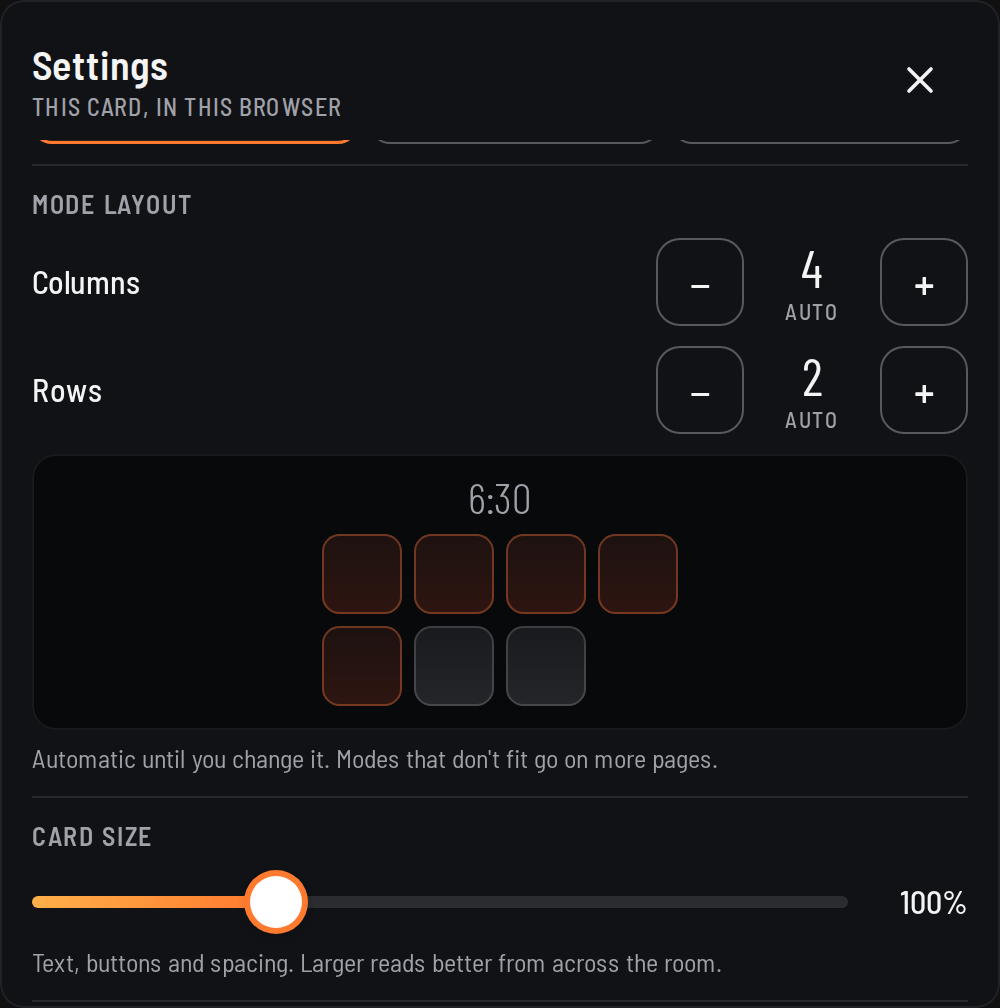
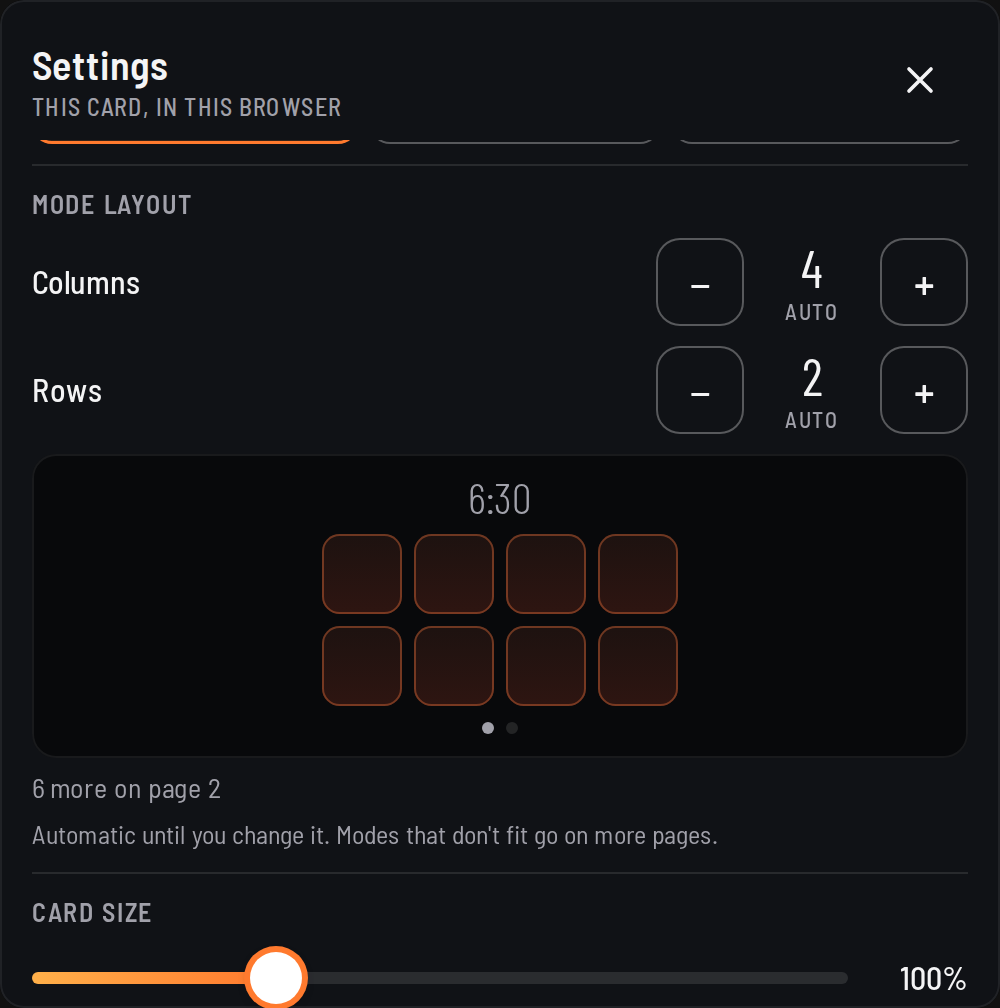
Card guide: update for card 0.5.12
Re-shot the /card/ page on card 0.5.12: History with Export, page 2 and
the glide back, all 11 modes and their review screens, the food probe
picker and Stop at target, and the wall graph's axes.

Claude-Session: https://claude.ai/code/session_01WwCH73fbN4NbpcaAJZKq51

diff --git a/public/card/index.html b/public/card/index.html
@@ -4,7 +4,7 @@
 <meta charset="utf-8">
 <meta name="viewport" content="width=device-width, initial-scale=1">
 <title>July Oven card guide — Project July</title>
-<meta name="description" content="A walkthrough of the July Oven dashboard card for Home Assistant: starting a cook, the oven states, the camera window, several ovens, settings and sizes, with pictures and animations.">
+<meta name="description" content="A walkthrough of the July Oven dashboard card for Home Assistant: starting a cook in any of its modes, the oven states, the camera window, cook history, several ovens, settings and sizes, with pictures and animations.">
 <meta name="theme-color" content="#08090b">
 <link rel="canonical" href="https://project-july.org/card/">
 <link rel="icon" href="../assets/project-july-mark.svg" type="image/svg+xml">
@@ -15,9 +15,9 @@
 <meta property="og:site_name" content="Project July">
 <meta property="og:url" content="https://project-july.org/card/">
 <meta property="og:title" content="The July Oven card for Home Assistant">
-<meta property="og:description" content="Every screen of the July Oven dashboard card: starting a cook, the oven states, the camera, several ovens and settings.">
+<meta property="og:description" content="Every screen of the July Oven dashboard card: starting a cook, the oven states, the camera, cook history, several ovens and settings.">
 <meta property="og:image" content="https://project-july.org/card/img/home.png">
-<meta property="og:image:alt" content="The July Oven card's home screen: a clock and tiles for Bake, Roast, Broil, Air fry, Toast, Camera and Settings.">
+<meta property="og:image:alt" content="The July Oven card's home screen: the oven's icon and name, the time, and mode tiles for Bake, Roast, Broil, Air fry, Toast, Grill, Pizza and Reheat.">
 <meta property="og:locale" content="en_US">
 <meta name="twitter:card" content="summary_large_image">
 <link rel="preconnect" href="https://fonts.googleapis.com">
@@ -163,25 +163,26 @@ footer{border-top:1px solid var(--rim);padding-block:28px;color:var(--fg3);font-
 </style>
 </head>
 <body>
+
 <div class="wrap">
   <header class="top">
     <a class="brand" href="../" aria-label="Project July, home">
       <svg viewBox="0 0 24 24" fill="none" stroke="currentColor" stroke-width="1.75" stroke-linecap="round" stroke-linejoin="round" aria-hidden="true"><rect x="3.5" y="4" width="17" height="16" rx="2.5"/><path d="M3.5 8.5h17M7 6.3h1.5M11 6.3h1.5"/><rect x="7" y="11.5" width="10" height="5.5" rx="1.2"/></svg>
       Project July
     </a>
-    <span class="ver">Card 0.4.9</span>
+    <span class="ver">Card 0.5.12</span>
   </header>
 
   <div class="hero">
     <div>
       <div class="lab ember">A tour of the dashboard card</div>
       <h1 style="margin-top:14px">The July Oven <em>card</em></h1>
-      <p class="lede">Your June oven, on your Home Assistant dashboard, working locally. This walkthrough covers <b>every screen</b> of the card: starting a cook, watching it, the camera, several ovens, and the settings.</p>
+      <p class="lede">Your June oven, on your Home Assistant dashboard, working locally. This walkthrough covers <b>every screen</b> of the card: starting a cook, watching it, the camera, the cook history, several ovens, and the settings.</p>
       <nav class="jump" aria-label="Sections">
-        <a href="#setup">Set up</a><a href="#home">Home screen</a><a href="#start">Start a cook</a><a href="#cook">While it cooks</a><a href="#camera">Camera</a><a href="#ovens">Several ovens</a><a href="#settings">Settings</a><a href="#sizes">Sizes</a><a href="#help">Help</a>
+        <a href="#setup">Set up</a><a href="#home">Home screen</a><a href="#start">Start a cook</a><a href="#cook">While it cooks</a><a href="#camera">Camera</a><a href="#history">History</a><a href="#ovens">Several ovens</a><a href="#settings">Settings</a><a href="#sizes">Sizes</a><a href="#help">Help</a>
       </nav>
     </div>
-    <figure class="shot glow"><img src="img/home.png" width="1000" height="752" alt="The July Oven card's home screen: the Kitchen oven's icon and name, the time 6:30, and tiles for Bake, Roast, Broil, Air fry, Toast, Camera and Settings."></figure>
+    <figure class="shot glow"><img src="img/home.png" width="1000" height="752" alt="The July Oven card's home screen: the Kitchen oven's icon and name, the time 6:30, and the first page of mode tiles: Bake, Roast, Broil, Air fry, Toast, Grill, Pizza and Reheat."></figure>
   </div>
 
   <section id="setup">
@@ -214,23 +215,21 @@ footer{border-top:1px solid var(--rim);padding-block:28px;color:var(--fg3);font-
     <div class="sec-head">
       <div class="lab">Home screen</div>
       <h2>What you see when the oven is off</h2>
-      <p>The card shows the oven's own home screen: a clock and the cook modes, laid out like the tiles on the oven's touchscreen.</p>
+      <p>The card shows the oven's own home screen: a clock and pages of cook modes, laid out and drawn like the tiles on the oven's touchscreen.</p>
     </div>
     <div class="pair" data-pins>
       <figure class="shot pins">
-        <img src="img/home.png" width="1000" height="752" alt="Home screen with numbered callouts.">
+        <img src="img/home.png" width="1000" height="752" alt="Home screen with numbered callouts: the oven icon, the clock, the mode tiles and the page dots.">
         <span class="pin" data-n="1" style="left:5%;top:18%">1</span>
         <span class="pin" data-n="2" style="left:65%;top:9%">2</span>
         <span class="pin" data-n="3" style="left:21.5%;top:30%">3</span>
-        <span class="pin" data-n="4" style="left:46.4%;top:65%">4</span>
-        <span class="pin" data-n="5" style="left:71%;top:65%">5</span>
+        <span class="pin" data-n="4" style="left:39%;top:93%">4</span>
       </figure>
       <ol class="legend">
         <li data-n="1"><i>1</i><div><b>The oven's icon is its lamp</b>Orange while the oven heats, white while it's off. Tap it to open the oven menu.</div></li>
         <li data-n="2"><i>2</i><div><b>Clock</b>12 or 24 hour follows your locale, or set it in Settings.</div></li>
-        <li data-n="3"><i>3</i><div><b>Cook mode tiles</b>The glow lines show which heating elements each mode uses: bottom for Bake, top for Broil, both for Roast, a fan for Air fry.</div></li>
-        <li data-n="4"><i>4</i><div><b>Camera</b>Opens the camera window inside the card.</div></li>
-        <li data-n="5"><i>5</i><div><b>Settings</b>Card settings for this browser, covered <a href="#settings">below</a>.</div></li>
+        <li data-n="3"><i>3</i><div><b>Cook mode tiles</b>Drawn the way the oven draws them: the glow lines show the heating elements (bottom for Bake, top for Broil, both for Roast), a fan for Air fry, waves for Reheat.</div></li>
+        <li data-n="4"><i>4</i><div><b>More pages</b>Swipe, or tap a dot. Page 2 holds Proof, Keep warm, Dehydrate, and the Camera, History and Settings tiles.</div></li>
       </ol>
     </div>
     <div class="two" style="margin-top:36px">
@@ -241,10 +240,14 @@ footer{border-top:1px solid var(--rim);padding-block:28px;color:var(--fg3);font-
       <figure class="shot"><img src="img/airfry.gif" width="700" height="526" loading="lazy" alt="Animation: the pointer rests on the Air fry tile and its fan spins up; when the pointer leaves, the fan slows and stops."><figcaption><b>Tiles answer the pointer.</b> A tile's glow fades in on hover, and the Air fry fan spins up, then eases to a stop when you move away.</figcaption></figure>
       <div class="prose" style="align-self:center">
         <div class="lab">Modes you can start from the card</div>
-        <div class="modes"><span class="mode">Bake</span><span class="mode">Roast</span><span class="mode">Broil</span><span class="mode">Air fry</span><span class="mode">Toast</span></div>
-        <p>Other June modes (Reheat, Proof, Dehydrate, Slow cook, Keep warm and more) still show by name when you start them on the oven or in the June app. Starting them from the card comes once their commands have been recorded.</p>
+        <div class="modes"><span class="mode">Bake</span><span class="mode">Roast</span><span class="mode">Broil</span><span class="mode">Air fry</span><span class="mode">Toast</span><span class="mode">Grill</span><span class="mode">Pizza</span><span class="mode">Reheat</span><span class="mode">Proof</span><span class="mode">Keep warm</span><span class="mode">Dehydrate</span></div>
+        <p>Slow cook still shows by name when you start it on the oven or in the June app; starting it from the card comes later.</p>
         <p>Prefer your favourites up front? Set <b>Cook modes</b> to <b>Most used first</b> in Settings and the tiles reorder by how often you start each mode from this card. <a href="#settings">Mode layout</a> sets how many columns and rows of tiles you get.</p>
       </div>
+    </div>
+    <div class="two" style="margin-top:28px">
+      <figure class="shot"><img src="img/home-p2.png" width="1000" height="752" loading="lazy" alt="Page 2 of the home screen: Proof, Keep warm, Dehydrate, Camera, History and Settings, with the second page dot lit."><figcaption><b>Page 2.</b> The last three modes, then Camera, History and Settings.</figcaption></figure>
+      <figure class="shot"><img src="img/pages.gif" width="700" height="526" loading="lazy" alt="Animation: tapping the second dot slides to page 2; after a while with no touch, the tiles glide back to page 1."><figcaption><b>Back to page 1 on its own.</b> Left alone for 45 seconds on a later page, the home screen glides back to the first one. Any touch stops it. (The wait is cut short here.)</figcaption></figure>
     </div>
   </section>
 
@@ -252,7 +255,7 @@ footer{border-top:1px solid var(--rim);padding-block:28px;color:var(--fg3);font-
     <div class="sec-head">
       <div class="lab">Start a cook</div>
       <h2>Tap a mode, check it, start it</h2>
-      <p>Nothing heats on one tap. Every mode opens a review first, and the oven only starts when you press <b>Start preheating</b>.</p>
+      <p>Nothing heats on one tap. Every mode opens a review first, and the oven only starts when you press <b>Start preheating</b>. Every review has the same layout: the mode's tile on the left, one large control in the middle with − and +, and a slider or a single line under it.</p>
     </div>
     <div class="pair">
       <figure class="shot glow"><img src="img/review.gif" width="700" height="526" loading="lazy" alt="Animation: tapping Bake opens the review at 350 °F; the slider is dragged to 425, then the number is tapped and 400 typed in; Start preheating is pressed and the card switches to Preheating, with the temperature climbing."><figcaption><b>Bake at 400 °F, start to finish.</b> Drag the slider, or use <b>−</b> and <b>+</b>, or tap the number and type it (Enter confirms, Escape puts the old value back). Then <b>Start preheating</b>.</figcaption></figure>
@@ -261,6 +264,12 @@ footer{border-top:1px solid var(--rim);padding-block:28px;color:var(--fg3);font-
       <div class="note cool" role="note"><svg viewBox="0 0 24 24" fill="none" stroke="currentColor" stroke-width="2" stroke-linecap="round" stroke-linejoin="round" aria-hidden="true"><rect x="4" y="4" width="16" height="16" rx="2"/><path d="M4 9h16"/></svg><div><b>Check the oven is empty</b> and the door is closed before you start. The card reminds you every time.</div></div>
       <div class="note cool" role="note"><svg viewBox="0 0 24 24" fill="none" stroke="currentColor" stroke-width="2" stroke-linecap="round" aria-hidden="true"><path d="M6 6l12 12M18 6 6 18"/></svg><div><b>Not now</b>, × or Escape closes the review without changing anything.</div></div>
     </div>
+    </div>
+    <div class="two" style="margin-top:36px">
+      <figure class="shot"><img src="img/review-toast.png" width="1000" height="752" loading="lazy" alt="Toast review: level 5 with − and +, and a slider from 1 Light to 9 Dark."><figcaption><b>Toast</b> sets a level from 1 (light) to 9 (dark) instead of a temperature.</figcaption></figure>
+      <figure class="shot"><img src="img/review-reheat.png" width="1000" height="752" loading="lazy" alt="Reheat review: a timer reading 1 hr 0 min with − and +, a slider from 1 minute to 10 hours, and the line Reheats at 350 °F."><figcaption><b>Reheat</b> sets a timer, from 1 minute to 10 hours. Tap the hours or minutes to type them.</figcaption></figure>
+      <figure class="shot"><img src="img/review-grill.png" width="1000" height="752" loading="lazy" alt="Grill review: Low, Medium and High, with High picked, and the line Grills at 450 °F."><figcaption><b>Grill</b> picks Low, Medium or High, like the oven's own screen.</figcaption></figure>
+      <figure class="shot"><img src="img/review-pizza.png" width="1000" height="752" loading="lazy" alt="Pizza review: 500 °F with the line The oven sets this temperature."><figcaption><b>Pizza</b> runs at the temperature the oven sets. Proof and Dehydrate have their own temperature ranges.</figcaption></figure>
     </div>
   </section>
 
@@ -325,6 +334,28 @@ footer{border-top:1px solid var(--rim);padding-block:28px;color:var(--fg3);font-
     </div>
   </section>
 
+  <section id="history">
+    <div class="sec-head">
+      <div class="lab">History</div>
+      <h2>Every cook, kept</h2>
+      <p>The integration records each cook when it ends, in Home Assistant, so it survives restarts and every browser sees the same list. The <b>History</b> tile shows them, newest first, with each cook's picture, target, time and result.</p>
+    </div>
+    <div class="pair">
+      <figure class="shot glow"><img src="img/history.gif" width="700" height="706" loading="lazy" alt="Animation: on page 2, tapping History opens the list of past cooks; tapping the Roast cook opens its picture, temperature graph and details; Back returns to the list; Export… shows its two choices and Cancel closes them."><figcaption><b>From the list to one cook and back, then Export.</b></figcaption></figure>
+      <div class="prose">
+        <p>Tap a cook for its last camera picture, its whole temperature curve (oven, and food from the June probe or the thermometer chosen under Settings › Food probe) and its details: result, time, length, target, hottest reading, preheat time and food temperature.</p>
+        <p><b>Export…</b> at the bottom of the list saves the history as a file: <b>Spreadsheet (CSV)</b> has one row per cook, <b>Everything (JSON)</b> has every cook in full with its temperature curve. Pictures stay in Media › june_oven.</p>
+        <p>A single cook, or the whole history, can be deleted from there. The integration keeps the newest 200 cooks per oven; recording and pictures can each be turned off in the integration's options.</p>
+        <p>Each finished cook also fires a <code>june_oven_cook_finished</code> event, handy for a cook log or a notification.</p>
+      </div>
+    </div>
+    <div class="three" style="margin-top:28px">
+      <figure class="shot"><img src="img/history.png" width="1000" height="1008" loading="lazy" alt="History list for Kitchen, 6 cooks: Roast 375°, Air fry 400°, Bake 350°, Toast 450° stopped, Proof 80°, Broil 500°, each with time, length and a Done or Stopped mark."><figcaption><b>The list.</b> A stopped cook says so.</figcaption></figure>
+      <figure class="shot"><img src="img/history-detail.png" width="1000" height="1008" loading="lazy" alt="One cook: Roast, today at 4:55 PM, its camera picture, a graph of oven and food temperature over 52 minutes with the 375° target, and the result Finished."><figcaption><b>One cook.</b> Degrees up the side and minutes along the bottom, like the wall graph.</figcaption></figure>
+      <figure class="shot"><img src="img/history-export.png" width="1000" height="1008" loading="lazy" alt="History list scrolled to the bottom after tapping Export…: buttons Cancel, Spreadsheet (CSV) and Everything (JSON), with a note on what each file holds."><figcaption><b>Export.</b> Pick a spreadsheet or every record in full.</figcaption></figure>
+    </div>
+  </section>
+
   <section id="ovens">
     <div class="sec-head">
       <div class="lab">Several ovens</div>
@@ -352,15 +383,22 @@ footer{border-top:1px solid var(--rim);padding-block:28px;color:var(--fg3);font-
     <div class="sec-head">
       <div class="lab">Settings</div>
       <h2>Make it yours, right in the card</h2>
-      <p>The Settings tile opens the card's own settings: the look, the camera, the name, the layout of the mode tiles, the card's size and each oven's icon. Choices are saved in this browser, so a wall tablet and your phone can each look the way you like. Your YAML is the starting point, and <b>Reset</b> goes back to it.</p>
+      <p>The Settings tile opens the card's own settings: the look, the camera, the name, the layout of the mode tiles, the card's size, the food probe and each oven's icon. Choices are saved in this browser, so a wall tablet and your phone can each look the way you like. Your YAML is the starting point, and <b>Reset</b> goes back to it.</p>
     </div>
     <div class="two">
       <figure class="shot"><img src="img/settings.png" width="1000" height="1008" loading="lazy" alt="Settings sheet: Appearance (Match Home Assistant, Light, Dark), Camera frame rate (1, 5, 10, 15 fps), Oven name (Tuck into the icon, Always show) and Cook modes (Oven's order, Most used first)."><figcaption><b>The top of Settings.</b> Dark, the oven's own glass, is the default look.</figcaption></figure>
       <figure class="shot"><img src="img/settings-layout.png" width="1000" height="1008" loading="lazy" alt="Settings scrolled to Mode layout: Columns 4 and Rows 2, both automatic, with − and + buttons over a small picture of the home screen; below it the Card size slider at 100%."><figcaption><b>Mode layout and card size.</b> Columns and rows of tiles over a small picture of the home screen, automatic until you change them. Card size scales text, buttons and spacing from 80 to 150%.</figcaption></figure>
     </div>
     <div class="two" style="margin-top:28px">
-      <figure class="shot"><img src="img/layout.gif" width="700" height="526" loading="lazy" alt="Animation: in Settings, Columns goes from 4 to 7 and Rows from 2 to 1, Mode icon size is set to Fill, and closing Settings shows all seven tiles in one row under the clock."><figcaption><b>One row of seven.</b> Seven columns, one row and Fill icons put every mode in a single row under the clock. Modes that don't fit the grid go on more pages.</figcaption></figure>
-      <figure class="shot"><img src="img/icons.gif" width="700" height="706" loading="lazy" alt="Animation: tapping Settings opens the settings sheet; it scrolls to Oven icons, where the bread and then the star icon are picked for Kitchen; closing Settings shows the star next to the oven's name."><figcaption><b>Changing an oven's icon.</b> One row per oven, lit like the card. Pick one of 12 icons or type any <code>mdi:</code> icon; the card changes as you tap. The version is at the bottom.</figcaption></figure>
+      <figure class="shot"><img src="img/layout.gif" width="700" height="526" loading="lazy" alt="Animation: on page 2, Settings opens; Columns goes from 4 to 7, Mode icon size is set to Fill, and closing Settings shows all fourteen tiles on one page."><figcaption><b>Everything on one page.</b> Seven columns and Fill icons fit all 14 tiles on one page. Modes that don't fit the grid go on more pages.</figcaption></figure>
+      <figure class="shot"><img src="img/icons.gif" width="700" height="706" loading="lazy" alt="Animation: on page 2, tapping Settings opens the settings sheet; it scrolls to Oven icons, where the bread and then the star icon are picked for Kitchen; closing Settings shows the star next to the oven's name."><figcaption><b>Changing an oven's icon.</b> One row per oven, lit like the card. Pick one of 12 icons or type any <code>mdi:</code> icon; the card changes as you tap. The version is at the bottom.</figcaption></figure>
+    </div>
+    <div class="pair" style="margin-top:28px">
+      <figure class="shot"><img src="img/settings-probe.png" width="1000" height="1008" loading="lazy" alt="Settings scrolled to Food probe, set to Combustion Probe Core Temperature, then Food target 145 with Stop at target and Show only."><figcaption><b>Food probe.</b> Use another thermometer, such as a Combustion probe.</figcaption></figure>
+      <div class="prose" style="align-self:center">
+        <p>Under <b>Food probe</b>, pick any Home Assistant temperature sensor to use instead of the June probe. Combustion probes' Core Temperature is listed first. The card and the graphs then show that thermometer's reading as the food temperature.</p>
+        <p><b>Food target</b> sets its target. With <b>Stop at target</b>, the card turns the oven off when the food reaches it. The oven can't read that thermometer, so a card has to be open for the stop to happen.</p>
+      </div>
     </div>
     <div class="tbl" style="margin-top:28px">
       <table>
@@ -374,6 +412,8 @@ footer{border-top:1px solid var(--rim);padding-block:28px;color:var(--fg3);font-
           <tr><td>Card size</td><td>80–150%: text, buttons and spacing</td><td><code>scale</code></td></tr>
           <tr><td>Mode icon size</td><td>Small, Medium, Large (default) or Fill</td><td><code>icon_size</code></td></tr>
           <tr><td>Clock</td><td>Automatic, 12-hour or 24-hour</td><td><code>clock</code></td></tr>
+          <tr><td>Food probe</td><td>The June probe, or any temperature sensor, per oven</td><td><code>probe</code></td></tr>
+          <tr><td>Food target</td><td>The other thermometer's target, and Stop at target or Show only</td><td><code>food_target</code>, <code>food_auto_stop</code></td></tr>
           <tr><td>Oven icons</td><td>12 built-in icons or any <code>mdi:</code> icon, per oven</td><td><code>icon</code></td></tr>
           <tr><td>Oven in Home Assistant</td><td>Opens the oven's device page</td><td>none</td></tr>
         </tbody>
@@ -387,7 +427,8 @@ footer{border-top:1px solid var(--rim);padding-block:28px;color:var(--fg3);font-
       <h2>From one row to the wall tablet</h2>
       <p>On a sections dashboard the card picks its layout from its size: standard is 12 × 6, wall tablet is full width × 8, compact is 12 × 1, and each extra oven adds a row. In a panel view the card fills the window. Set <code>display_mode</code> to choose one yourself.</p>
     </div>
-    <figure class="shot"><img src="img/wall.png" width="2064" height="1008" loading="lazy" alt="The wall tablet layout: a wide card with a large 12:30 timer, Cooking status, progress bar, Done at 6:42 PM, add-time chips, a wide Stop button, a large camera picture and under it a graph of oven and food temperature."><figcaption><b>Wall tablet.</b> Bigger type and more space, made to be read from across the room. Under the camera, a graph shows the oven temperature and, with the probe in, the food temperature for this cook (up to the last hour), with the target as a dashed line. It reads Home Assistant's history, so it needs the recorder; tap it for the full history.</figcaption></figure>
+    <figure class="shot"><img src="img/wall.png" width="2064" height="1008" loading="lazy" alt="The wall tablet layout: a wide card with a large 12:30 timer, Cooking status, progress bar, Done at 6:42 PM, add-time chips, a wide Stop button, a large camera picture and under it a graph of oven and food temperature."><figcaption><b>Wall tablet.</b> Bigger type and more space, made to be read from across the room. Under the camera, a graph shows the oven temperature and, with the probe in, the food temperature for this cook (up to the last hour), with the target as a dashed line. Degrees run up the left with the target in bold, and minutes since the start along the bottom. It stays up on the Done screen until the food is out. It reads Home Assistant's history, so it needs the recorder; tap it for the full history.</figcaption></figure>
+    <figure class="shot" style="margin-top:24px"><img src="img/wall-probe.png" width="2064" height="1008" loading="lazy" alt="Wall tablet during a probe cook: food at 131 degrees, target 145, Roast at 350 °F, with the oven and food lines on the graph under the camera."><figcaption><b>Probe cook on the wall.</b> The big number is the food, and the graph draws both lines.</figcaption></figure>
     <div style="display:grid;gap:14px;margin-top:32px">
       <div class="lab">Compact, one row</div>
       <figure class="shot"><img src="img/compact-preheat.png" width="1000" height="112" loading="lazy" alt="Compact card: preheating at 312 degrees with a Stop button."></figure>
@@ -422,6 +463,9 @@ footer{border-top:1px solid var(--rim);padding-block:28px;color:var(--fg3);font-
           <li><b>The oven is cleaning</b>, or <b>isn't ready yet</b>. Try again in a moment.</li>
         </ul>
       </div></details>
+      <details class="glass"><summary>Stop at target didn't turn the oven off</summary><div>
+        <p>The oven can't read another thermometer, so the card does the stopping. It only works while a card showing that oven is open in a browser.</p>
+      </div></details>
       <details class="glass"><summary>The camera says Camera off</summary><div>
         <p>The oven only sends pictures while it heats, unless it runs the Project July local server, which can wake the camera when you open the window. Start a cook and pictures appear within a second or two. If the oven is heating and the window says <b>Waiting for a picture</b>, the oven hasn't sent one yet.</p>
       </div></details>
@@ -432,7 +476,7 @@ footer{border-top:1px solid var(--rim);padding-block:28px;color:var(--fg3);font-
   </section>
 
   <footer>
-    <span>July Oven card 0.4.9 · part of the June Oven integration by Project July</span>
+    <span>July Oven card 0.5.12 · part of the June Oven integration by Project July</span>
     <span><a href="../">project-july.org</a> · <a href="https://github.com/prj-july/ha-june-oven">github.com/prj-july/ha-june-oven</a></span>
   </footer>
 </div>
@@ -459,7 +503,7 @@ footer{border-top:1px solid var(--rim);padding-block:28px;color:var(--fg3);font-
     probe: { title: "Probe cook", alt: "Probe cook: food at 131 degrees, target 145, Roast at 350 °F, cooking for 21 minutes.",
       text: ["With the probe in, the big number is the food temperature, with its target beside the status.", "The line below gives the mode, the oven temperature and how long it has been cooking."] },
     done: { title: "Done", img: "dismiss.gif", alt: "Animation: the Done screen says Take food out with a green bar; tapping Food is out returns the card to the home screen.",
-      text: ["The card says <b>Take food out</b> for 30 minutes after the cook ends.", "Press <b>Food is out</b> to clear it and go back to the home screen."] },
+      text: ["The card says <b>Take food out</b> for 30 minutes after the cook ends. On a wall tablet the temperature graph stays up until then.", "Press <b>Food is out</b> to clear it and go back to the home screen. The cook is saved in the <a href=\"#history\">history</a>."] },
     offline: { title: "Offline", alt: "Offline: last reading 401 degrees, shown greyed, with a dashed bar, last seen 3 minutes ago while cooking.",
       text: ["Home Assistant has lost touch with the oven. The last reading stays, greyed, with how long ago it was seen.", "Stop stays available in case the oven comes back mid-cook."] }
   };
